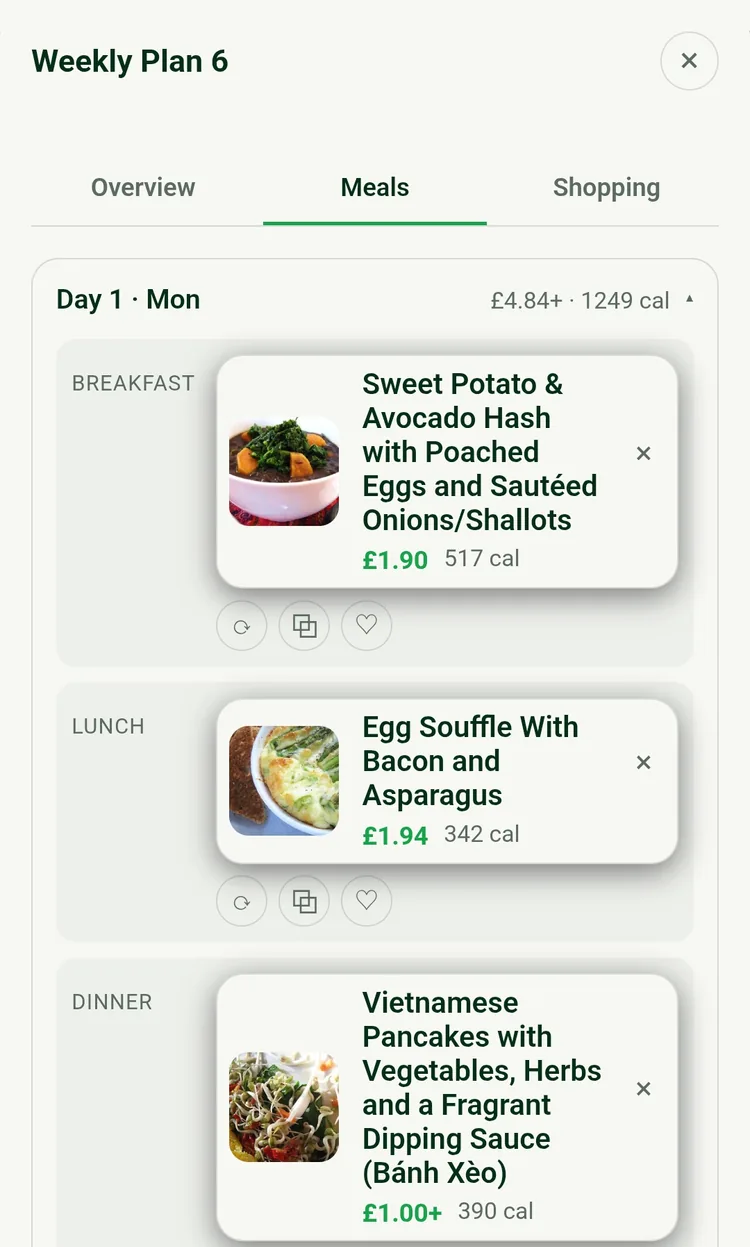
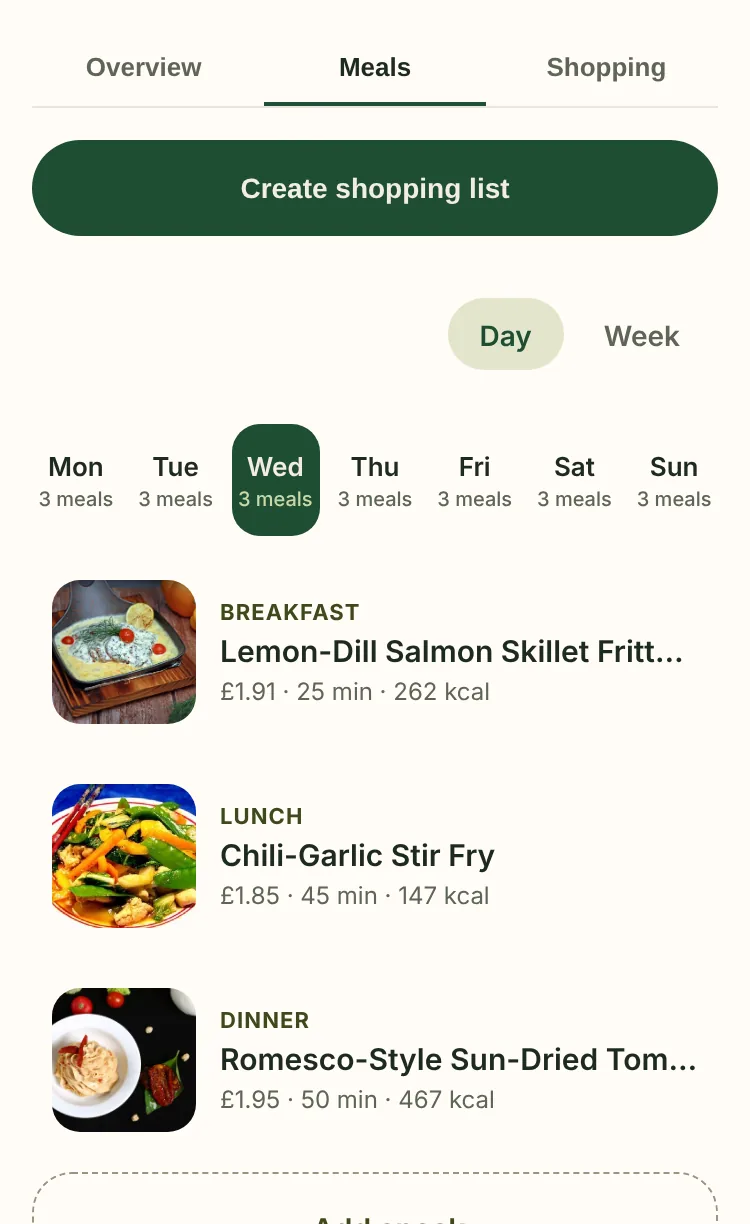
web: welcome page phone frames use new Pantry-style app screenshots (recipes, fridge impact, meal plan day view, shopping list)
Claude-Session: https://claude.ai/code/session_01DDyiD8vVcgGCHvYeoP6GTf

diff --git a/apps/web/app/how-it-works/page.tsx b/apps/web/app/how-it-works/page.tsx
@@ -21,28 +21,28 @@ const FEATURES = [
     key: "recipes",
     title: "Recipes with UK supermarket prices",
     subtitle: "See what every dish costs per serving before you shop",
-    image: { src: "/images/how-it-works/recipes.webp", width: 750, height: 1226 },
+    image: { src: "/images/how-it-works/recipes.webp?v=2", width: 750, height: 1224 },
     alt: "Recipes list filtered to breakfast, each smoothie recipe showing its price per serving",
   },
   {
     key: "fridge",
     title: "Know what's in your fridge",
     subtitle: "Scan a receipt or snap your fridge",
-    image: { src: "/images/how-it-works/fridge.webp", width: 750, height: 1201 },
+    image: { src: "/images/how-it-works/fridge.webp?v=2", width: 750, height: 1224 },
     alt: "Fridge list of ingredients, each with a quantity and an expiry countdown",
   },
   {
     key: "meal-plan",
     title: "Plan your week",
     subtitle: "Breakfast to dinner, built around your budget",
-    image: { src: "/images/how-it-works/meal-plan.webp", width: 750, height: 1247 },
+    image: { src: "/images/how-it-works/meal-plan.webp?v=2", width: 750, height: 1224 },
     alt: "Weekly meal plan showing breakfast, lunch and dinner, each with a price and calories",
   },
   {
     key: "shopping",
     title: "One list for the week",
     subtitle: "Every ingredient from your plan, priced and ready to shop",
-    image: { src: "/images/how-it-works/shopping.webp", width: 750, height: 1197 },
+    image: { src: "/images/how-it-works/shopping.webp?v=2", width: 750, height: 1224 },
     alt: "Shopping list of ingredients from the plan, each with a price and the shop it comes from",
   },
 ] as const;
